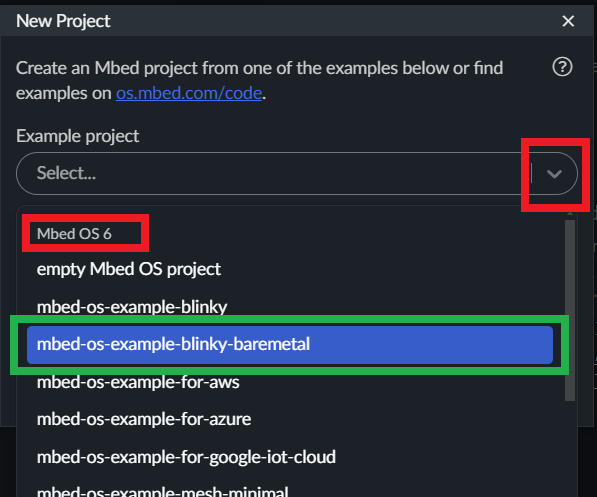
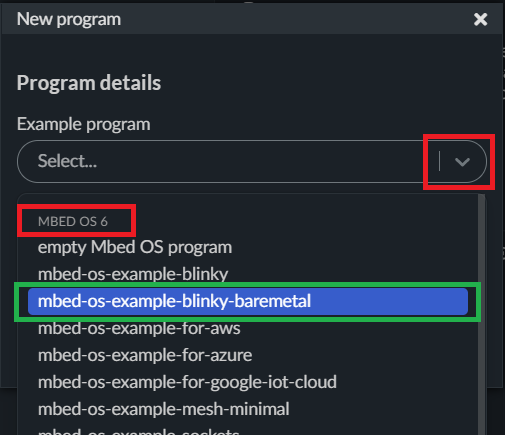
Update Documentation

diff --git a/docs/source/contents/gen_mbed_project.rst b/docs/source/contents/gen_mbed_project.rst
@@ -8,7 +8,7 @@ Keil Studio Cloud
 
 .. note::
 
-	In this section, we assume that you have an Arm® account. See :ref:`Keil Studio Cloud account <keil_studio_cloud>`.
+	In this section, we assume that you have a MBED account or an Arm® account. See :ref:`Keil Studio Cloud account <keil_studio_cloud>`.
 
 
 You can access to this platform by following this link: https://www.keil.arm.com/. 
@@ -25,7 +25,7 @@ You will access to the main window of the :abbr:`IDE (Integrated Development Env
 
 This interface is divided in a classical manner with a **project management** area (on the left side of the interface), a **text editor** area (in the top-right part of the interface) and an **output information** area (in the bottom-right part of the interface).
 
-.. figure:: ../_static/images/keil/keil_mbed_studio_plus.png
+.. figure:: ../_static/images/keil/keil_cloud_plus.png
 	:align: center
 
 	Main window of the Keil Studio Cloud platform. https://www.keil.arm.com/
@@ -41,10 +41,80 @@ Create your first project
 
 To create a new project, you can click :menuselection:`+ New Project` (icon surrounded by a **red** border on the previous figure) or click :menuselection:`File -> New... -> MBED Project`.
 
-.. figure:: ../_static/images/keil/keil_mbed_studio_new_project_mbed.png
+.. figure:: ../_static/images/keil/keil_cloud_new_project_mbed.png
 	:align: center
 
 	:menuselection:`File -> New... -> MBED Project` in Keil Studio Cloud.
+
+Then select :menuselection:`MBED6 -> mbed-os-example-blinky-baremetal`.
+
+.. figure:: ../_static/images/keil/keil_cloud_new_project_mbed_blinky.png
+	:align: center
+	:width: 70%
+	
+	New project selection. 
+	
+.. warning::
+
+	To avoid any compilation conflicts with other libraries, make sure to select the **baremetal** project in the **MBED 6** version of *MBED-OS*.
+	
+When the type of project is selected, you can change the **project name**. Give a specific name corresponding to the content of the project.
+
+.. figure:: ../_static/images/keil/keil_cloud_new_project_add.png
+	:align: center
+	:width: 70%
+
+You can uncheck the :menuselection:`Initialize this project as a Git repository` option if you are not using Git with your project.
+
+Click :menuselection:`Add project`. Your first project is created. 
+
+.. figure:: ../_static/images/keil/keil_cloud_first_project.png
+	:align: center
+	
+You can check in the :menuselection:`Libraries Manager` tab (in the bottom-right part of the interface) the version of MBED that it is used (in this example: MBED version 6.13).
+
+|
+
+Now it's time to test your first application, go to the :ref:`Blinky example explanations <mbed_blinky>` .
+
+
+.. _mbed_studio_project:
+
+MBED Studio
+***********
+
+.. note::
+
+	In this section, we assume that you have a MBED account and that MBED Studio is installed on your computer. See :ref:`Keil Studio Cloud account <keil_studio_cloud>`.
+	
+
+Start :menuselection:`MBED Studio`.
+
+MBED Studio IDE
+===============
+
+You will access to the main window of the :abbr:`IDE (Integrated Development Environment)`.
+
+This interface is divided in a classical manner with a **project management** area (on the left side of the interface), a **text editor** area (in the top-right part of the interface) and an **output information** area (in the bottom-right part of the interface).
+
+.. figure:: ../_static/images/keil/keil_mbed_studio_plus.png
+	:align: center
+
+	Main window of the MBED Studio software.
+	
+
+During your first access, no projects appear in the **project management** part. In this section, you can access to the list of the projects you develop (icon surrounded by a **pink** border).
+
+Create your first project
+=========================
+
+To create a new project, you can click :menuselection:`+ New Project` (icon surrounded by a **red** border on the previous figure) or click :menuselection:`File -> New Program`.
+
+.. figure:: ../_static/images/keil/keil_mbed_studio_new_program.png
+	:align: center
+	:width: 70%
+
+	:menuselection:`File -> New Program` in MBED Studio.
 
 Then select :menuselection:`MBED6 -> mbed-os-example-blinky-baremetal`.
 
@@ -56,26 +126,51 @@ Then select :menuselection:`MBED6 -> mbed-os-example-blinky-baremetal`.
 	
 .. warning::
 
-	To avoid any compilation conflicts with other libraries, make sure to select the **baremetal** project version.
+	To avoid any compilation conflicts with other libraries, make sure to select the **baremetal** project in the **MBED 6** version of *MBED-OS*.
+	
+When the type of project is selected, you can change the **project name**. Give a specific name corresponding to the content of the project.
 
+.. figure:: ../_static/images/keil/keil_mbed_studio_new_project_add.png
+	:align: center
+	:width: 70%
+	
+	Add a new project in MBED Studio.
+
+
+.. warning::
+
+	In the **MBED OS Location** section, make sure to select the **Link to an existing shared Mbed OS instance** option, and select the directory where an instance of the last MBED-OS is installed.
+
+	
+.. note::
+	
+	On the LEnsE labwork computers, the last version of MBED-OS is installed in :file:`S:\\mbed-os` and :file:`C:\\mbed-os` .
+	
+Click :menuselection:`Add project`. Your first project is created. 
+
+.. figure:: ../_static/images/keil/keil_mbed_studio_first_project.png
+	:align: center
+	
 |
 
-.. _mbed_studio_project:
+Now it's time to test your first application.
 
-MBED Studio
-***********
-
-.. note::
-
-	In this section, we assume that you have an Arm® account and that MBED Studio is installed on your computer. See :ref:`Keil Studio Cloud account <keil_studio_cloud>`.
-	
-
+.. _mbed_blinky:
 
 Blinky Baremetal Example
 ************************
 
 
 
+
+Duplicate a project
+*******************
+
+
+
+
 Pre-compiler informations
 *************************
+
+
 

diff --git a/docs/source/contents/gen_mbed_keil.rst b/docs/source/contents/gen_mbed_keil.rst
@@ -29,7 +29,7 @@ C++ is increasingly being used for microcontroller programming, especially with 
 
 #. **Standard Template Library (STL)**: C++ includes a rich standard library, including containers (like vectors, arrays, and maps), algorithms, and utilities. Although the standard library may not always be suitable for resource-constrained microcontrollers, parts of it can still be utilized depending on the microcontroller's capabilities.
 #. **Portability**: C++ code written for microcontrollers can be highly portable across different platforms, provided that the code doesn't rely on platform-specific features or hardware-dependent optimizations.
-#. **Toolchain Support**: Many modern microcontroller development toolchains, including compilers and IDEs, provide support for C++ development. This includes popular microcontroller families such as ARM Cortex-M series, AVR, PIC, and others.
+#. **Toolchain Support**: Many modern microcontroller development toolchains, including compilers and IDEs, provide support for C++ development. This includes popular microcontroller families such as ARM® Cortex-M® series, AVR, PIC, and others.
 
 .. caution::
 	
@@ -50,6 +50,14 @@ It also provides a comprehensive set of development tools, including a free Inte
 Mbed has a vibrant community of developers, contributors, and partners who contribute libraries, example codes, and resources to the ecosystem. This rich ecosystem makes it easier for developers to find support, collaborate, and leverage existing components for their projects. 
 
 The **LEnsE** team also develops **ressources** (libraries and examples) for Mbed-OS: `MBED6 Libraries <https://iogs-lense-ressources.github.io/mbed6-libraries/>`_.
+
+
+.. warning::
+
+	At the moment **Mbed Studio** supports **only Mbed login** (created on https://os.mbed.com/).
+	
+	**Keil Studio Cloud** supports both Mbed and Arm® accounts
+
 
 .. _keil_studio_cloud:
 
@@ -91,6 +99,10 @@ MBED Studio
 
 A client (or local) version, called **Mbed Studio** and developed by Arm® is also available.
 
+.. warning::
+
+	At the moment **Mbed Studio** supports **only Mbed login** (created on https://os.mbed.com/).
+
 It provides a comprehensive set of tools for developing, compiling, debugging, and deploying firmware for microcontroller-based devices. It offers the same features as Keil Studio Cloud, except that it required to be locally installed on your computer. 
 
 You can download the last version on the Mbed web site: https://os.mbed.com/studio/.
@@ -101,5 +113,5 @@ You can download the last version on the Mbed web site: https://os.mbed.com/stud
 
 	Interface of MBED Studio.
 
-At first use, you must be connected to the Internet and have an Arm® account. But after the first use, no internet connection is required.
+At first use, you must be connected to the Internet and have a Mbed account. But after the first use, no internet connection is required.
 

diff --git a/docs/source/contents/nucleo.rst b/docs/source/contents/nucleo.rst
@@ -11,5 +11,8 @@ Nucleo boards from STMicroelectronics
 Other ressources
 ****************
 
+* `Keil Studio Cloud - User Guide <https://developer.arm.com/documentation/102497/1-7/?lang=en>`_
 * `A beginners Guide to developing on STM32 <https://medium.com/theteammavericks/a-beginners-guide-to-developing-on-stm32-b7fd38966aa0>`_
+
+
 

diff --git a/docs/source/contents/first_project.rst b/docs/source/contents/first_project.rst
@@ -1,6 +1,10 @@
 First project
 #############
 
+In this section, ...
+
+
+
 .. toctree::
    :maxdepth: 1
    
